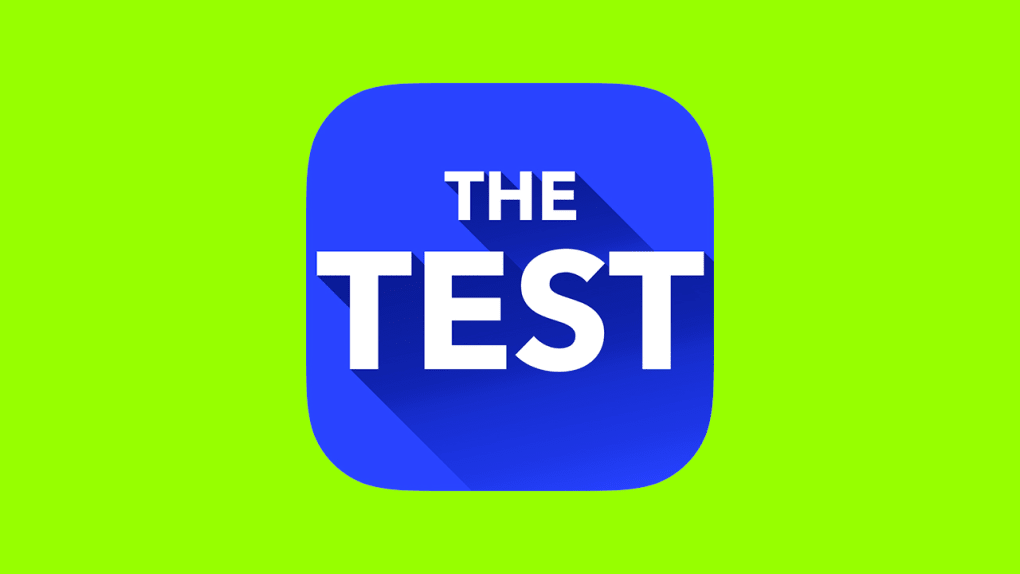
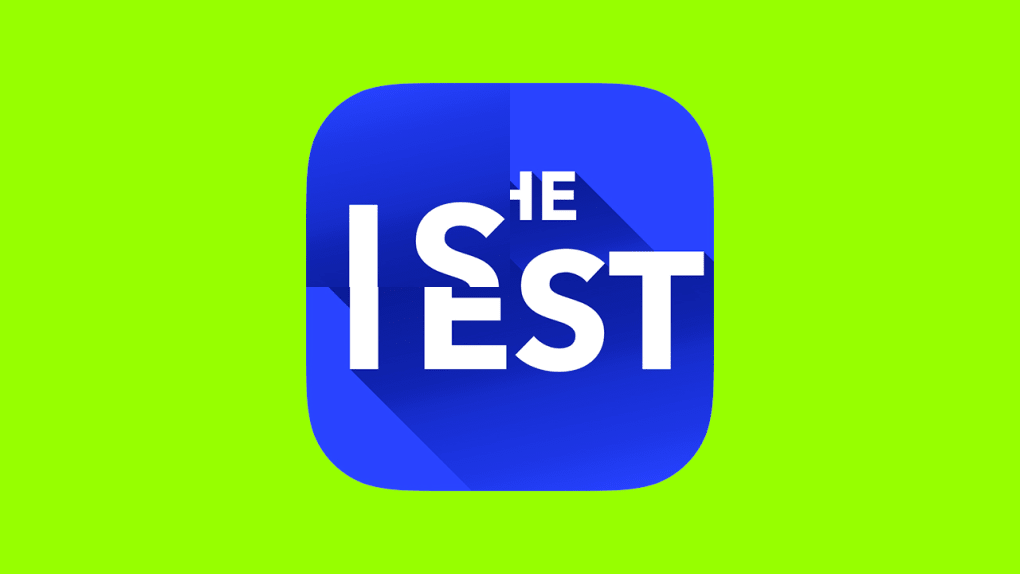
better ultra transform

Changed region(s): [[0.2735, 0.1777, 0.5167, 0.5035]]

diff --git a/oop.py b/oop.py
@@ -41,6 +41,13 @@ class MyUltraTransformer(Filter):
             for j in range(0, len(self.arr[i])): # row number from 0 to 15
                 r, g, b = self.arr[i][j] # get rgb values for the pixel
                 self.arr[i][j] = [g, b, r] # mix rgb values
+        
+        #mix pixels
+        n = len(self.arr)
+        m = len(self.arr[0])
+        for i in range(0, n // 2):
+            for j in range(0, m // 2): 
+                self.arr[i][j], self.arr[n-i-1][m-j-1] = self.arr[n-i-1][m-j-1], self.arr[i][j]
 
     def SaveImage(self, destination):
         return super().SaveImage(destination)
@@ -73,10 +80,10 @@ def main():
     transformer2.SaveImage("data/test_ultra_little.png")
 
 
-    # big pic
+    # # big pic
     image_file = "data/test_cut_big.png"
 
-    # to gray
+    # # to gray
 
     transformer = GrayScaleTransformer(image_file)
 
@@ -84,7 +91,7 @@ def main():
     transformer.transform()
     transformer.SaveImage("data/test_gray_big.png")
 
-    # shuffle channels
+    # # shuffle channels
 
     transformer2 = MyUltraTransformer(image_file)
 
